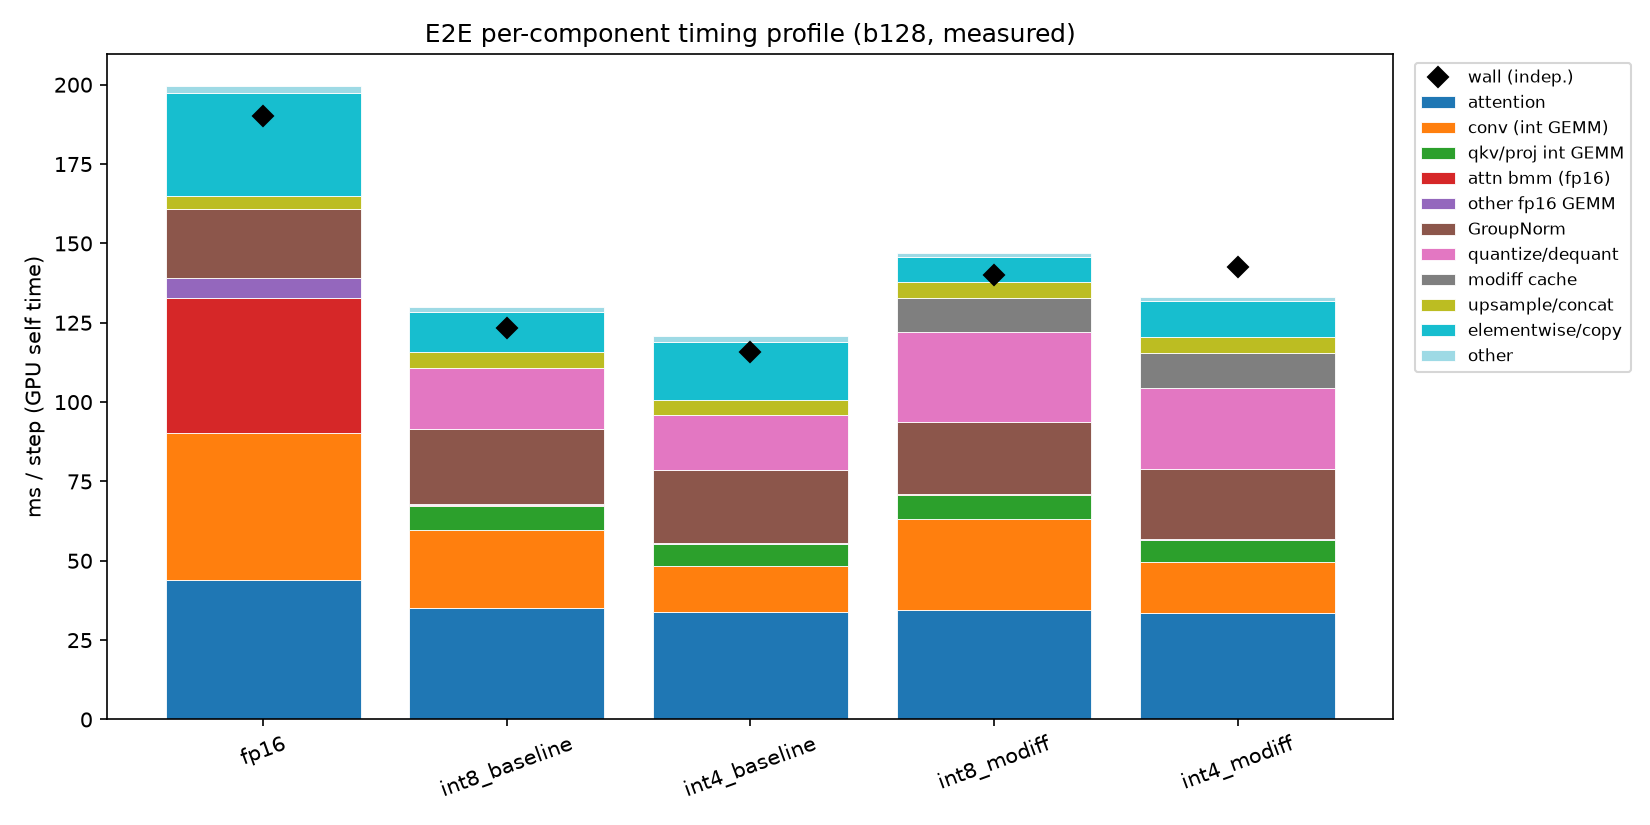
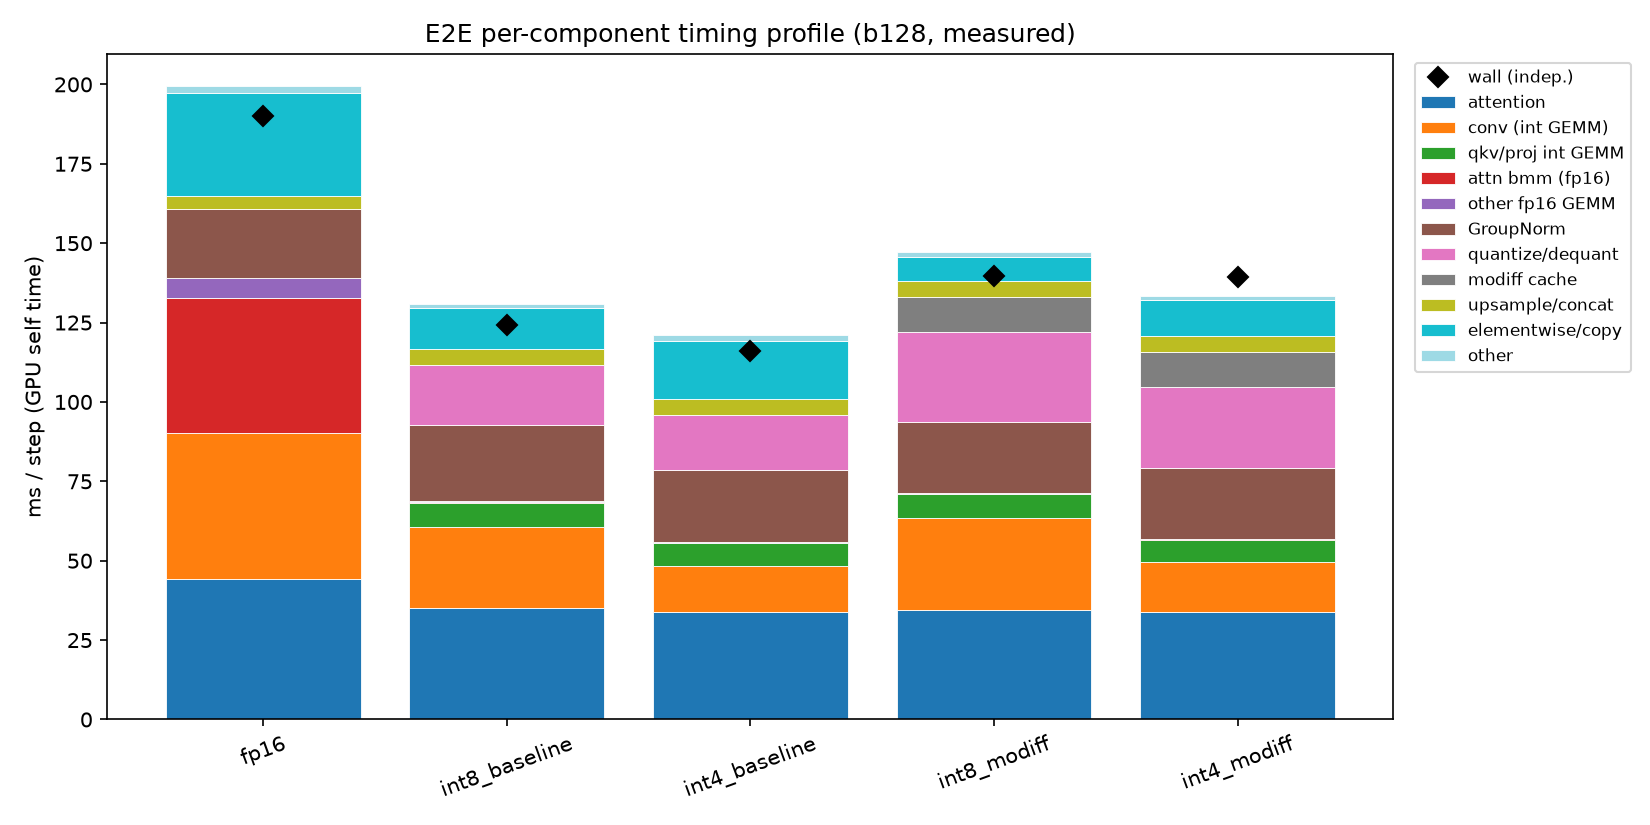
REPORT: refresh e2e/timing/conv numbers after int8 store unification
Re-measured e2e speed + timing profile + conv kernel with int8 routed through the
deep-fuse store (matching int4). int8 change is e2e-neutral (int8_baseline
124.3->125.1 ms, within noise; elementwise 12.7 unchanged) — the old >=2M
deep-fuse+eager-bias path was already traffic-equivalent. int4_baseline 116.9 ms
(1.62x) remains fastest. Updated tables + figures; added the int8-unify A/B entry
(bit-close rel-L2 5.4e-4, e2e-neutral).

diff --git a/docs/benchmark_5mode_2026-07-20/REPORT.md b/docs/benchmark_5mode_2026-07-20/REPORT.md
@@ -3,8 +3,9 @@
 **GPU:** NVIDIA A40 (48 GB, SM 8.6) · **PyTorch:** 2.4.1+cu124 · **CUDA:** 12.4 · nsys 2024.1.1
 **Model:** LSUN-Churches LDM-8 UNet (unconditional, 256×256) · **Batch:** 128 · **Sampler:** DDIM
 **Date:** 2026-07-20 · **all timing/kernel/IO data re-measured 2026-07-21** at the current code state
-(fused-flash attention; a_hat-drop; residual→o_hat fusion ON; int4 conv deep-fuse dequant ON;
-GN→delta-quantize fusion OFF).
+(fused-flash attention; a_hat-drop; residual→o_hat fusion ON; int8 & int4 conv use the deep-fuse store —
+weight_scale in the CUTLASS epilogue, bias/residual folded into the from_half store; GN→delta-quantize
+fusion OFF).
 
 **5 modes:** `fp16`, `int8_baseline`, `int4_baseline`, `int8_modiff`, `int4_modiff`. int8/int4 use
 fused-flash quantized attention; `_modiff` adds the temporal-delta conv cache.
@@ -25,11 +26,11 @@ modes. Data: `data/*.csv` · figures: `figs/*.png`.
 
 | mode | ms/step | min ms | vs fp16 |
 |---|--:|--:|--:|
-| fp16 | 190.0 | 188.8 | 1.00× |
-| int8_baseline | 124.3 | 124.1 | 1.53× |
-| **int4_baseline** | **117.3** | **117.2** | **1.62×** |
-| int8_modiff | 140.9 | 140.9 | 1.35× |
-| int4_modiff | 140.7 | 140.1 | 1.35× |
+| fp16 | 189.6 | 188.2 | 1.00× |
+| int8_baseline | 125.1 | 125.0 | 1.52× |
+| **int4_baseline** | **116.9** | **116.7** | **1.62×** |
+| int8_modiff | 141.0 | 140.8 | 1.35× |
+| int4_modiff | 139.1 | 138.8 | 1.36× |
 
 ![e2e speed](figs/fig_e2e_speed.png)
 
@@ -47,17 +48,17 @@ Copy-traffic only; per-kernel compute DRAM IO is in §Kernel/IO (NVBit).
 
 | bucket | fp16 | int8_baseline | int4_baseline | int8_modiff | int4_modiff |
 |---|--:|--:|--:|--:|--:|
-| attention (flash / softmax) | 44.0 | 35.1 | 33.9 | 34.5 | 33.7 |
+| attention (flash / softmax) | 44.2 | 35.1 | 33.9 | 34.5 | 33.7 |
 | attn bmm fp16 (QKᵀ/AV) | 42.4 | 0.2 | 0.2 | 0.2 | 0.2 |
-| conv (int GEMM) | 46.3 | 24.5 | 14.3 | 28.8 | 15.8 |
-| qkv/proj int GEMM | 0.0 | 7.7 | 7.1 | 7.5 | 7.0 |
-| GroupNorm | 21.6 | 23.9 | 22.9 | 22.4 | 22.2 |
-| quantize/dequant | 0.0 | 19.0 | 17.3 | 28.3 | 25.6 |
+| conv (int GEMM) | 46.0 | 25.4 | 14.5 | 28.8 | 15.9 |
+| qkv/proj int GEMM | 0.0 | 7.7 | 7.1 | 7.6 | 7.0 |
+| GroupNorm | 21.6 | 23.9 | 22.9 | 22.5 | 22.2 |
+| quantize/dequant | 0.0 | 19.0 | 17.3 | 28.4 | 25.6 |
 | modiff cache (o_hat) | 0.0 | 0.0 | 0.0 | 11.0 | 11.0 |
-| elementwise/copy | 32.6 | 12.7 | 18.2 | 7.6 | 11.4 |
-| upsample/concat + other | 12.6 | 6.9 | 7.0 | 6.8 | 6.4 |
-| **gpu_busy** | 199.5 | 130.0 | 120.9 | 147.1 | 133.1 |
-| **wall** | 190.0 | 123.4 | 115.8 | 140.1 | 142.4 |
+| elementwise/copy | 32.6 | 12.7 | 18.3 | 7.6 | 11.4 |
+| upsample/concat + other | 12.6 | 6.9 | 7.1 | 6.8 | 6.4 |
+| **gpu_busy** | 199.4 | 131.0 | 121.2 | 147.3 | 133.4 |
+| **wall** | 190.1 | 124.4 | 116.2 | 139.8 | 139.5 |
 
 ![e2e timing profile](figs/fig_e2e_timing_profile.png)
 
@@ -69,16 +70,16 @@ Copy-traffic only; per-kernel compute DRAM IO is in §Kernel/IO (NVBit).
 
 | shape (Cin→Cout, HW) | fp16 | int8_base | int4_base | int8_modiff | int4_modiff | int8 vs fp16 | int4 vs fp16 |
 |---|--:|--:|--:|--:|--:|--:|--:|
-| res 128, 64² | 1876 | 1668 | 1146 | 2676 | 2246 | 1.13× | 1.64× |
-| res 128, 32² | 488 | 435 | 303 | 704 | 582 | 1.12× | 1.61× |
-| down 128→256, 32² | 938 | 763 | 521 | 1175 | 954 | 1.23× | 1.80× |
-| res 256, 32² | 1623 | 1210 | 755 | 1677 | 1265 | 1.34× | 2.15× |
-| res 256, 16² | 440 | 321 | 209 | 453 | 351 | 1.37× | 2.11× |
-| down 256→512, 16² | 805 | 571 | 358 | 753 | 562 | 1.41× | 2.25× |
-| mid 512, 8² | 427 | 264 | 157 | 326 | 227 | 1.62× | 2.71× |
-| up 512→256, 16² | 779 | 547 | 338 | 703 | 515 | 1.42× | 2.30× |
-| up 256→128, 32² | 874 | 707 | 459 | 1059 | 844 | 1.24× | 1.90× |
-| up 128, 64² | 1916 | 1691 | 1162 | 2688 | 2247 | 1.13× | 1.65× |
+| res 128, 64² | 1904 | 1697 | 1159 | 2640 | 2246 | 1.12× | 1.64× |
+| res 128, 32² | 500 | 440 | 307 | 705 | 582 | 1.14× | 1.63× |
+| down 128→256, 32² | 959 | 776 | 527 | 1167 | 954 | 1.24× | 1.82× |
+| res 256, 32² | 1650 | 1234 | 763 | 1688 | 1267 | 1.34× | 2.16× |
+| res 256, 16² | 449 | 323 | 211 | 454 | 352 | 1.39× | 2.12× |
+| down 256→512, 16² | 825 | 583 | 361 | 758 | 564 | 1.42× | 2.29× |
+| mid 512, 8² | 435 | 264 | 159 | 329 | 227 | 1.65× | 2.74× |
+| up 512→256, 16² | 794 | 556 | 341 | 712 | 518 | 1.43× | 2.33× |
+| up 256→128, 32² | 883 | 714 | 463 | 1063 | 845 | 1.24× | 1.91× |
+| up 128, 64² | 1933 | 1717 | 1170 | 2662 | 2247 | 1.13× | 1.65× |
 
 ![conv kernel](figs/fig_conv_kernel.png)
 
@@ -196,6 +197,12 @@ int4_baseline **conv kernel** speedup vs fp16, per shape · `data/int4_deepfuse_
 | res 256, 16² | 1.68× | 2.11× | up 128, 64² | 1.23× | 1.65× |
 
 int4_baseline conv range: **1.21–2.31× → 1.61–2.71×** vs fp16.
+
+**int8 conv store unification** — `_conv_from_int8` routed through the same deep-fuse store as int4 (bias
+folded into the `from_half` store; removes the ≥2M-element heuristic + the trailing eager bias add). Output
+rel-L2 **5.4e-4** vs the prior path over 40 real conv calls. **e2e-neutral** (int8_baseline 124.3→125.1
+ms, within noise; the old ≥2M deep-fuse+eager-bias path was already traffic-equivalent) — kept for
+consistency with int4 and the correctly-fused bias-only small-conv case.
 
 **GN→delta-quantize fusion** — modiff, GroupNorm folded into the delta-quantize (bit-identical). e2e
 regression; kept OFF (opt-in `MODIFF_ENABLE_GN_MODIFF_FUSION=1`) · `data/gn_modiff_fusion_{e2e,kernel}.csv`:
